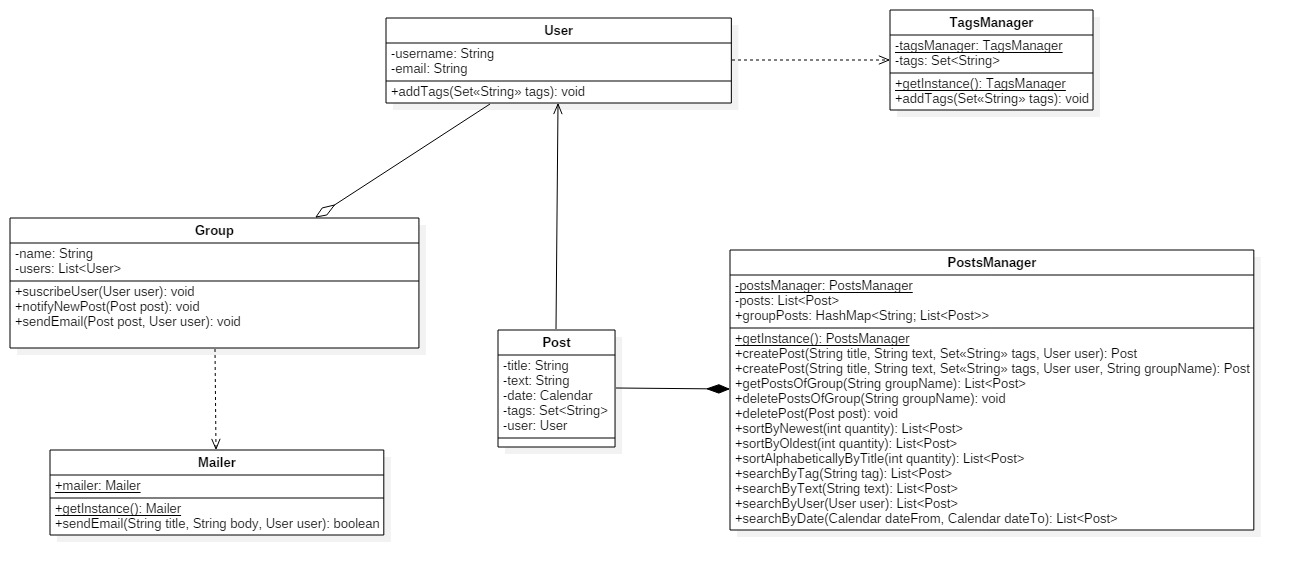
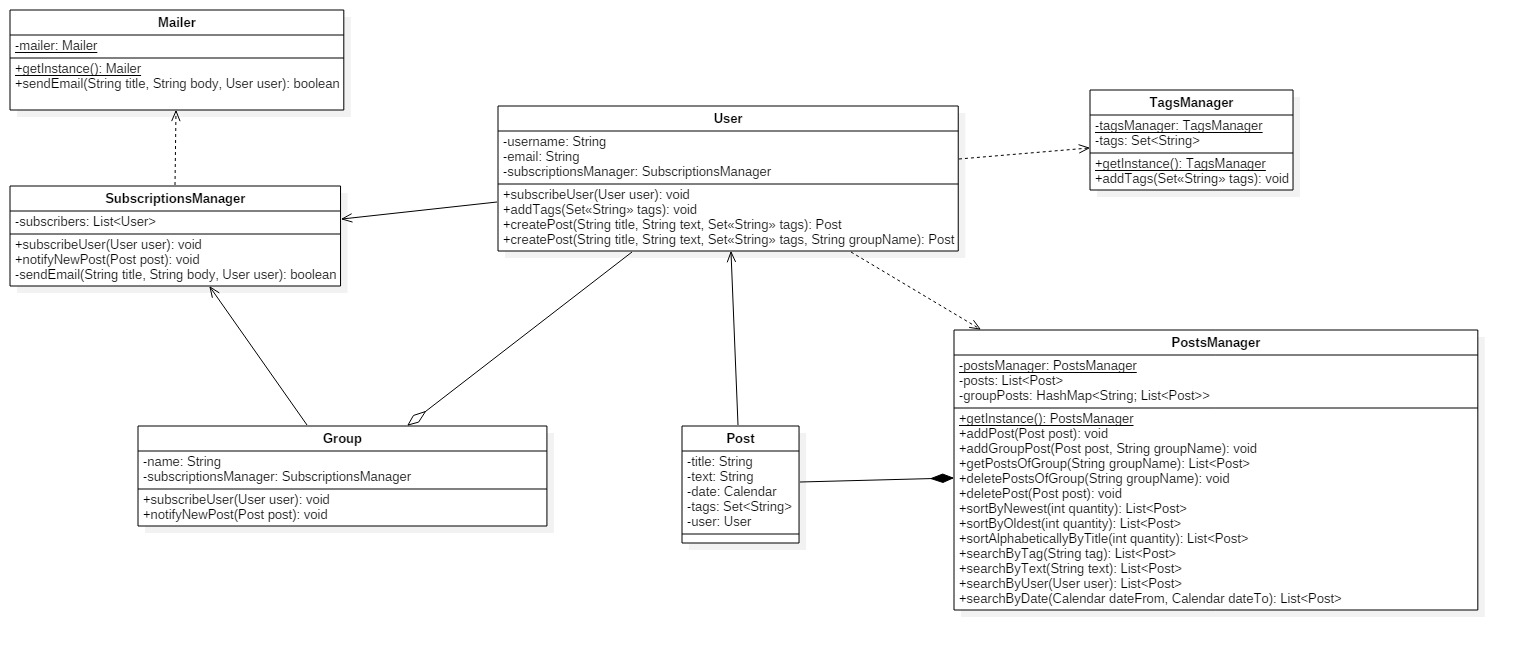
Update class diagram and add a subscriptions manager

diff --git a/Day 3/blog-app/src/main/java/com/bootcamp/app/Group.java b/Day 3/blog-app/src/main/java/com/bootcamp/app/Group.java
@@ -1,44 +1,23 @@
 package com.bootcamp.app;
 
-import java.util.ArrayList;
-import java.util.List;
-
 public class Group {
 
 	private String name;
-	private List<User> users = new ArrayList<>();
+	private SubscriptionsManager subscriptionsManager = new SubscriptionsManager();
 	
 	public Group(String name) {
-		this.setId(name);
+		this.name = name;
 	}
-
+	
+	public void subscribeUser(User user) {
+		subscriptionsManager.subscribeUser(user);
+	}
+	
 	public void notifyNewPost(Post post) {
-		users.forEach(user -> {
-			if (user != post.getUser()) {
-				sendEmail(post, user);
-			}
-		});
-	}
-
-	private void sendEmail(Post post, User user) {
-		Mailer.getInstance().sendEmail("New Post", 
-				"Post: " + post.getTitle() + ". Author: " + post.getUser().getUsername(), 
-				user.getEmail());
+		subscriptionsManager.notifyNewPost(post);
 	}
 
 	/* *** GETTERS & SETTERS *** */
-
-	public void suscribeUser(User user) {
-		users.add(user);
-	}
-
-	public List<User> getUsers() {
-		return users;
-	}
-
-	public void setUsers(List<User> users) {
-		this.users = users;
-	}
 
 	public String getName() {
 		return name;
@@ -46,5 +25,13 @@ public class Group {
 
 	public void setId(String name) {
 		this.name = name;
+	}
+
+	public SubscriptionsManager getSubsManager() {
+		return subscriptionsManager;
+	}
+
+	public void setSubsManager(SubscriptionsManager subsManager) {
+		this.subscriptionsManager = subsManager;
 	}
 }

diff --git a/Day 3/blog-app/src/main/java/com/bootcamp/app/User.java b/Day 3/blog-app/src/main/java/com/bootcamp/app/User.java
@@ -1,14 +1,39 @@
 package com.bootcamp.app;
 
+import java.util.Set;
+
 public class User {
 	
 	private String username;
 	private String email;
+	private SubscriptionsManager subscriptionsManager = new SubscriptionsManager();
 	
 	public User(String username, String email) {
 		this.username = username;
 		this.setEmail(email);
 	}
+	
+	public void subscribeUser(User user) {
+		subscriptionsManager.subscribeUser(user);
+	}
+	
+	public void addTags(Set<String> tags) {
+		TagsManager.getInstance().addTags(tags);
+	}
+	
+	public Post createPost(String title, String text, Set<String> tags) {
+		Post post = new Post(title, text, tags, this);
+		PostsManager.getInstance().addPost(post);
+		subscriptionsManager.notifyNewPost(post);
+		return post;
+	}
+	
+	public Post createPost(String title, String text, Set<String> tags, Group group) {
+		Post post = new Post(title, text, tags, this);
+		PostsManager.getInstance().addGroupPost(post, group.getName());
+		// TODO Notify post created to subscribers	
+		return post;		
+	}	
 	
 	/* *** GETTERS & SETTERS *** */
 	
@@ -26,5 +51,13 @@ public class User {
 
 	public void setEmail(String email) {
 		this.email = email;
+	}
+
+	public SubscriptionsManager getSubscriptionsManager() {
+		return subscriptionsManager;
+	}
+
+	public void setSubscriptionsManager(SubscriptionsManager subscriptionsManager) {
+		this.subscriptionsManager = subscriptionsManager;
 	}
 }

diff --git a/Day 3/blog-app/src/main/java/com/bootcamp/app/PostsManager.java b/Day 3/blog-app/src/main/java/com/bootcamp/app/PostsManager.java
@@ -5,7 +5,6 @@ import java.util.Calendar;
 import java.util.Comparator;
 import java.util.HashMap;
 import java.util.List;
-import java.util.Set;
 import java.util.stream.Collectors;
 
 public class PostsManager {
@@ -20,25 +19,6 @@ public class PostsManager {
 			postsManager = new PostsManager();
 		}
 		return postsManager;
-	}
-	
-	public Post createPost(String title, String text, Set<String> tags, User user) {
-		Post post = new Post(title, text, tags, user);
-		posts.add(post);	
-		return post;
-	}
-	
-	public Post createPost(String title, String text, Set<String> tags, User user, String groupName) {
-		Post post = new Post(title, text, tags, user);
-		List<Post> posts = groupPosts.get(groupName);
-		if (posts == null) {
-			posts = new ArrayList<>();
-			posts.add(post);
-			groupPosts.put(groupName, posts);
-		} else {
-			posts.add(post);
-		}
-		return post;		
 	}
 	
 	public List<Post> getPostsOfGroup(String groupName) {
@@ -109,6 +89,21 @@ public class PostsManager {
 	}
 	
 	/* *** GETTERS & SETTERS *** */
+	
+	public void addPost(Post post) {
+		posts.add(post);
+	}
+	
+	public void addGroupPost(Post post, String groupName) {
+		List<Post> posts = groupPosts.get(groupName);
+		if (posts == null) {
+			posts = new ArrayList<>();
+			posts.add(post);
+			groupPosts.put(groupName, posts);
+		} else {
+			posts.add(post);
+		}
+	}
 	
 	public List<Post> getPosts() {
 		return posts;

diff --git a/Day 3/blog-app/src/main/java/com/bootcamp/app/App.java b/Day 3/blog-app/src/main/java/com/bootcamp/app/App.java
@@ -7,6 +7,7 @@ public class App {
 	
 	public static void main(String[] args) {
 		
+		/*
 		User matias = new User("matias", "matias@gmail.com");
 		User pablo = new User("pablo", "pablo@gmail.com");
 		User alejo = new User("alejo", "alejo@gmail.com");
@@ -33,7 +34,7 @@ public class App {
 		javaGroup.suscribeUser(matias);
 		javaGroup.suscribeUser(pablo);
 		
-		PostsManager.getInstance().createPost("matiasGroupPost", "groupText", null, matias, javaGroup.getName());
+		PostsManager.getInstance().createPost("matiasGroupPost", "groupText", null, matias, javaGroup);
 		
 		PostsManager.getInstance().createPost("matiasPost1", "matiasText1", null, matias);
 		PostsManager.getInstance().createPost("matiasPost2", "matiasText2", null, matias);
@@ -52,7 +53,7 @@ public class App {
 		PostsManager.getInstance().sortByOldest(0).forEach(post -> System.out.println(post.getTitle()));		
 		PostsManager.getInstance().sortByNewest(0).forEach(post -> System.out.println(post.getTitle()));
 		PostsManager.getInstance().sortAlphabeticallyByTitle(0).forEach(post -> System.out.println(post.getTitle()));
-		
+		*/
 		
 	}
 }

diff --git a/Day 3/blog-app/src/main/java/com/bootcamp/app/SubscriptionsManager.java b/Day 3/blog-app/src/main/java/com/bootcamp/app/SubscriptionsManager.java
@@ -1,0 +1,37 @@
+package com.bootcamp.app;
+
+import java.util.ArrayList;
+import java.util.List;
+
+public class SubscriptionsManager {
+	
+	private List<User> subscribers = new ArrayList<>();
+	
+	public void subscribeUser(User user) {
+		subscribers.add(user);
+	}
+	
+	public void notifyNewPost(Post post) {
+		subscribers.forEach(user -> {
+			if (user != post.getUser()) {
+				sendEmail(post, user);
+			}
+		});
+	}
+	
+	private void sendEmail(Post post, User user) {
+		Mailer.getInstance().sendEmail("New Post", 
+				"Post: " + post.getTitle() + ". Author: " + post.getUser().getUsername(), 
+				user.getEmail());
+	}
+	
+	/* *** GETTERS & SETTERS *** */
+
+	public List<User> getSubscribers() {
+		return subscribers;
+	}
+
+	public void setSubscribers(List<User> subscribers) {
+		this.subscribers = subscribers;
+	}
+}
